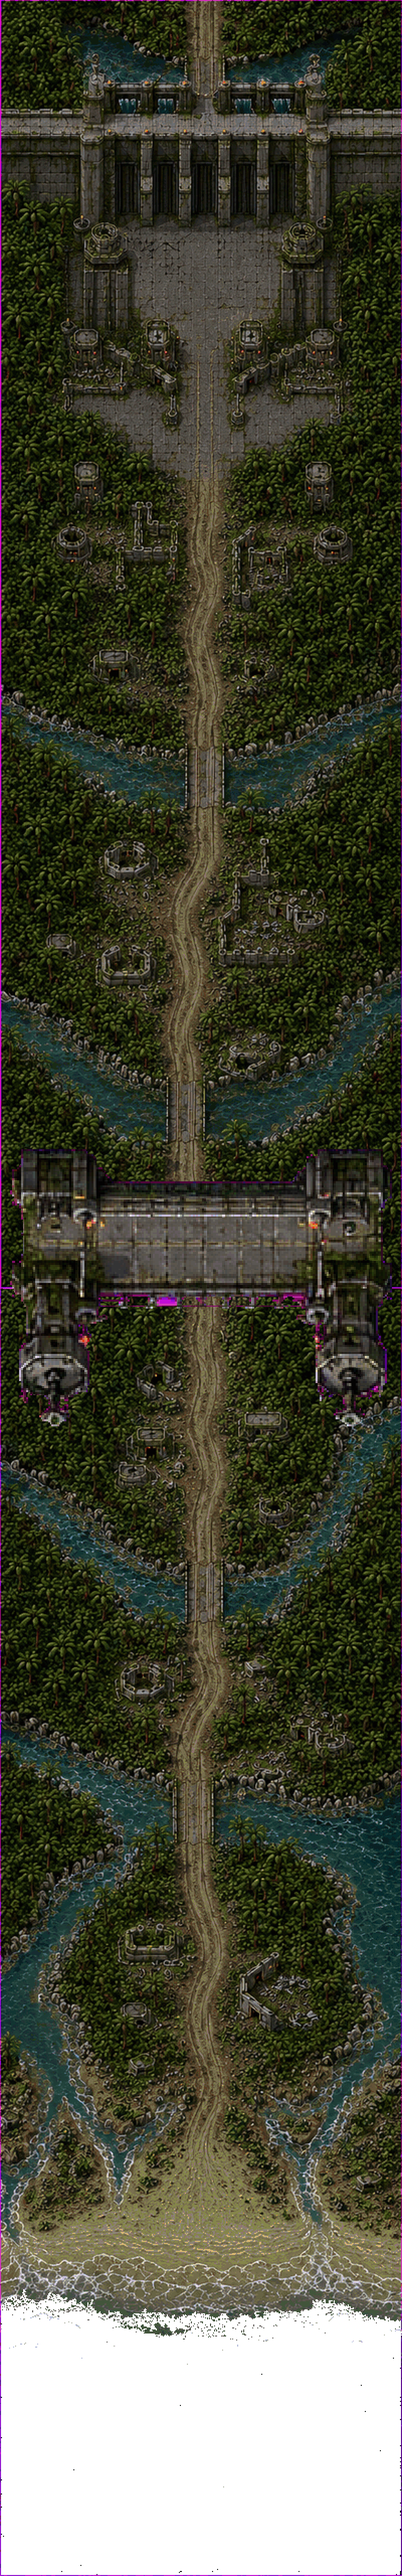
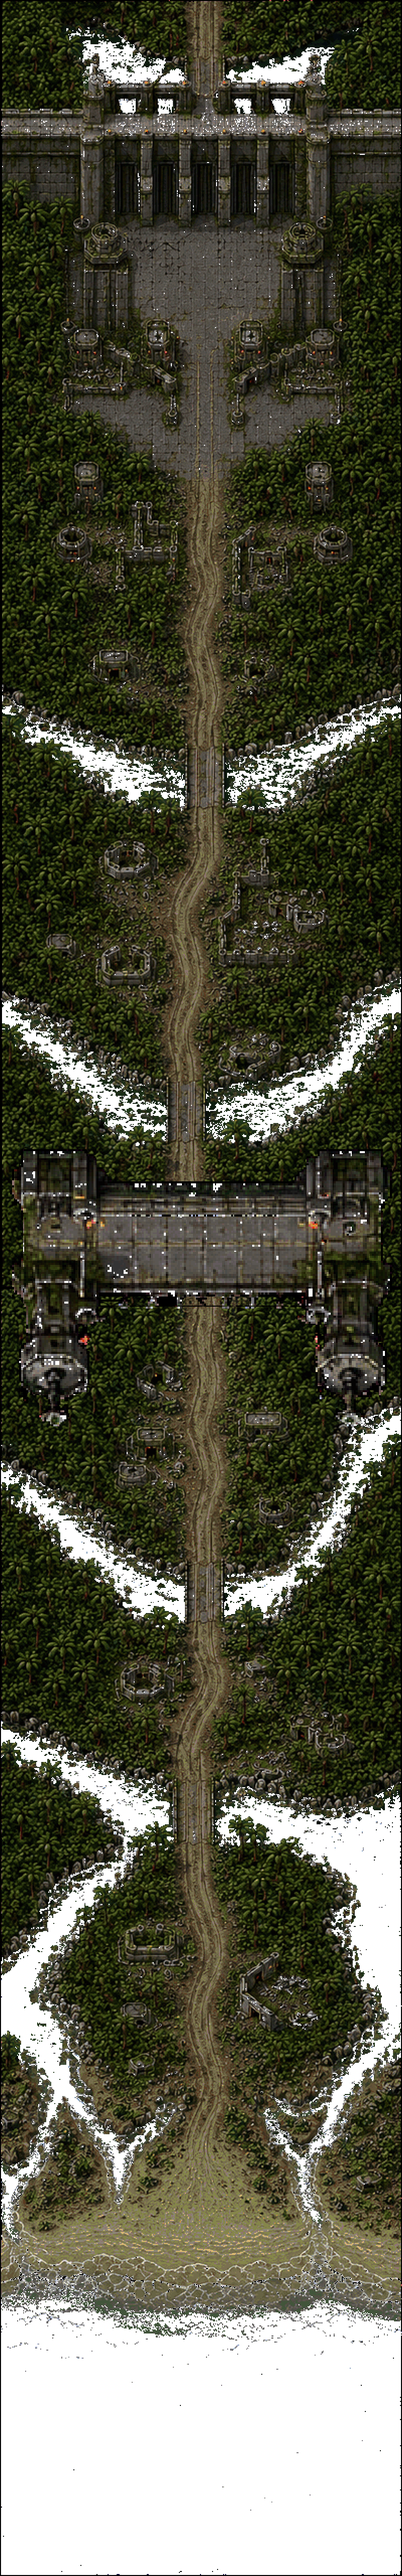
Stage 1: every body of water animates, and no magenta survives
Mike: "You have to clean all purple halo's ... no magenta should exist. now you
need to make all water appear to animate too."

ALL WATER IS NOW AN ALPHA HOLE, not just the sea. The first pass flood-filled from
the bottom edge, which took the ocean and left every river, delta and reservoir
painted and static. Punching them globally takes the water from 414,752 px to
670,644 (10.1% -> 16.4% of the plate), so the rivers ripple with the same bed the
sea uses.

Deep water nearly defeated that. A b>48 brightness floor rejected the shadow half of
the ocean - measured survivors were rgb(9,32,35) and rgb(5,43,46) - and the coast
re-measured to 5115 instead of 4595, which is what exposed it. The discriminator is
not brightness: water keeps blue at or above green with both above red, while dark
jungle canopy has blue BELOW green. That holds at any brightness, so the floor drops
to 22 and the canopy still cannot leak in.

MAGENTA IS GONE, AND THE FIRST TWO ATTEMPTS ONLY LOOKED LIKE IT. Pass one required
r>70 && b>70 and walked straight past the DARK halo - rgb(50,16,85), rgb(79,28,52) -
reporting "clean" with 16,256 px still on the plate. Magenta is a HUE relationship,
not a brightness one. Pass two closed most of it but still left 1,536 px, because the
conversion threshold (16) was looser than the audit threshold (12) and so could pass
while purple survived. The two now use the same number, which is the actual fix:

  converted 48,024 px -> black edge
[…]

diff --git a/assets/game.js b/assets/game.js
@@ -4434,11 +4434,11 @@ function spawnEnemy(type, x, y, opt={}){
         const _H=(_cfg&&_cfg.h)||4800;
         /* RE-MEASURED FOR THE RC2 PLATE (drop 0809m). 3384 was measured off the old 800x4800
            master and cannot carry over to a different plate of a different height and route.
-           Same method, run on the finished plate: below y=4593 the rows average 98% open
+           Same method, run on the finished plate: below y=4595 the rows average 98% open
            water, above it 0% - a cleaner split than the old plate ever had. Note the sea leg
            is much SHORTER than it was, 527px against 1416, so the naval opening is a brief
            run before the beach. That is how RC2 authored the route, not a bug to tune out. */
-        const _COAST=4593;                       // measured on jungle800_rc2_master
+        const _COAST=4595;                       // measured on jungle800_rc2_master
         const _camY=_H-(mapScroll||0);           // scroll runs bottom -> top
         if(_camY > _COAST){                      // still out over the sea
           /* picked from the spawn POSITION, not Math.random(): the same wave lays
